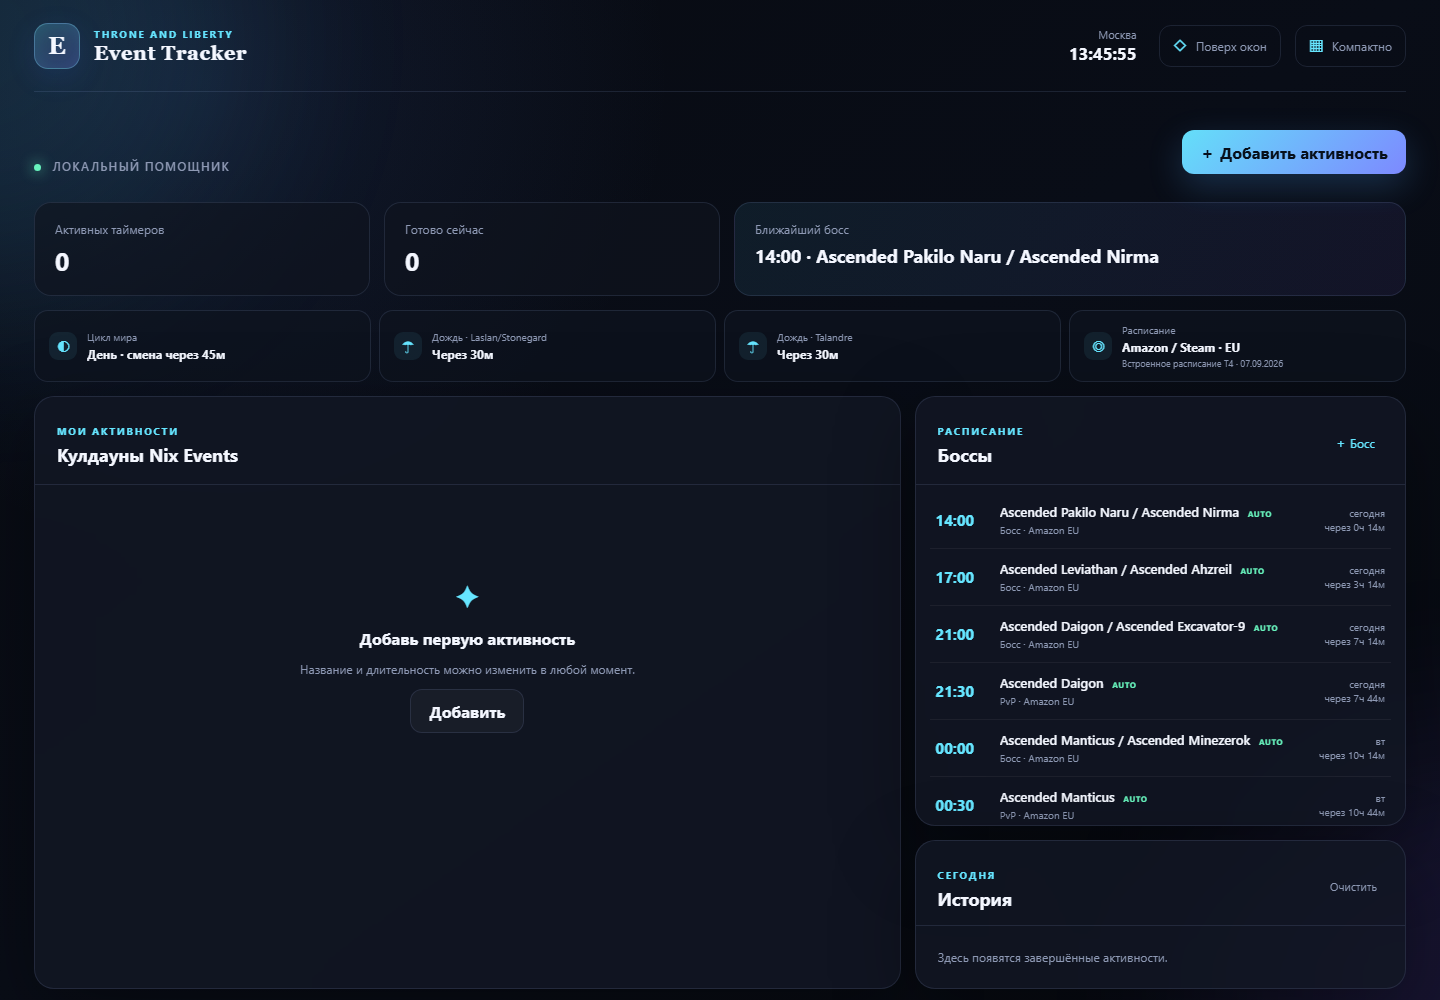
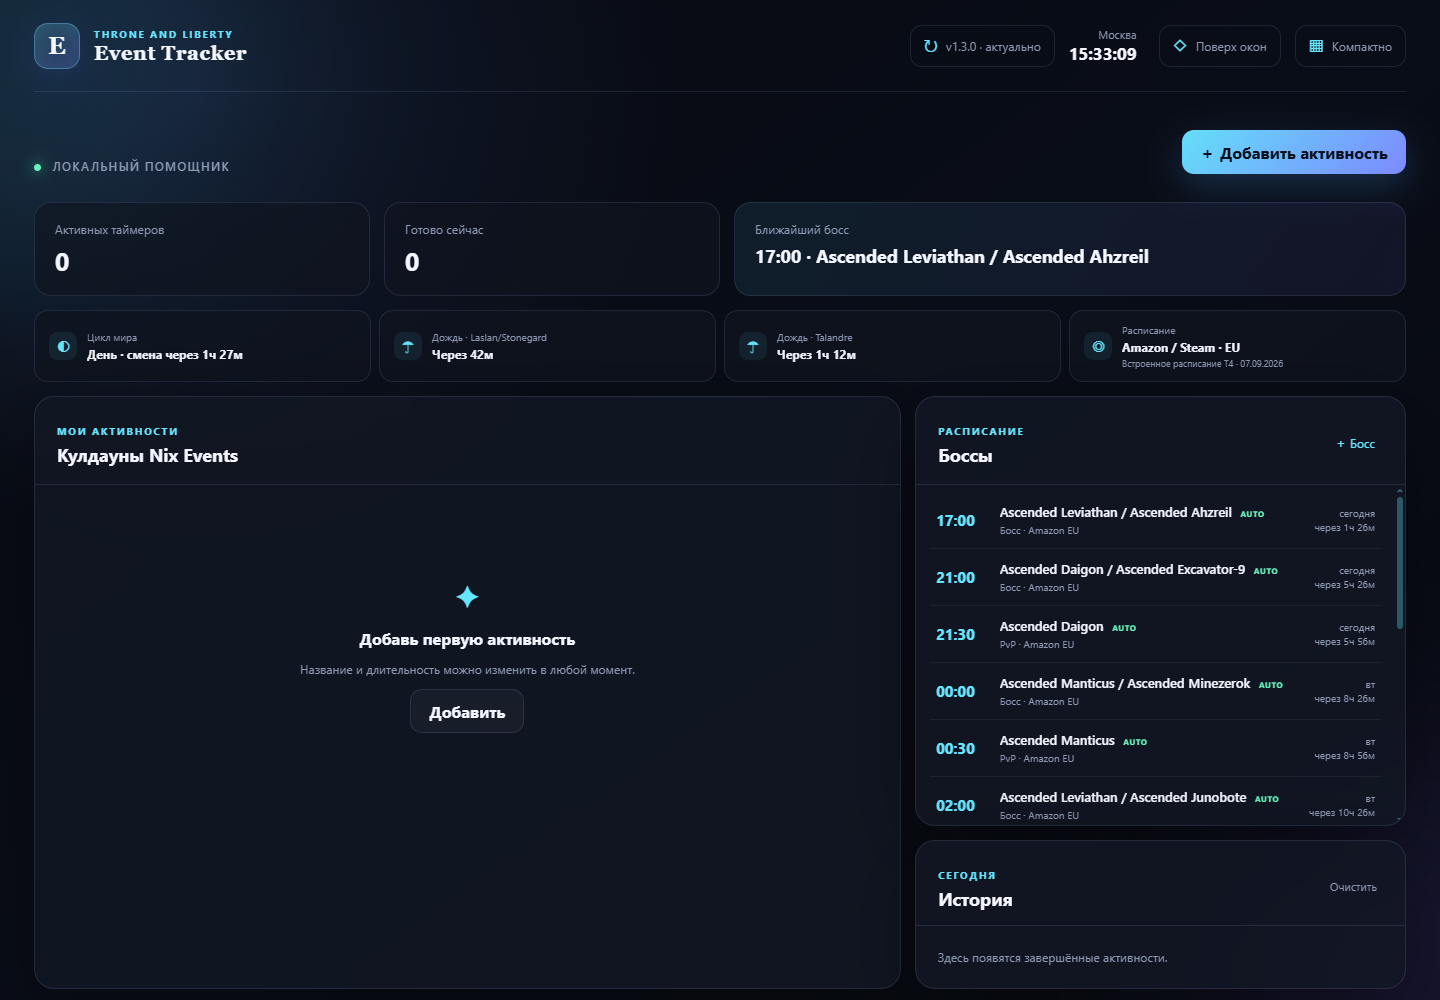
Refresh README and application preview

diff --git a/README.md b/README.md
@@ -1,45 +1,63 @@
 # Nix Tracker
 
-Локальный таймер активностей и событий для Throne and Liberty: Nix.
+Локальный Windows-помощник для **Throne and Liberty (Amazon Games / Steam, регион EU)**: таймеры прохождений, расписание боссов, погода и цикл дня/ночи.
 
-![Интерфейс Nix Tracker](ui-preview.png)
+[![Последний релиз](https://img.shields.io/github/v/release/uladislav-st/tnl-timer?label=release&color=66e5ff)](https://github.com/uladislav-st/tnl-timer/releases/latest)
+[![Windows build](https://github.com/uladislav-st/tnl-timer/actions/workflows/release.yml/badge.svg)](https://github.com/uladislav-st/tnl-timer/actions/workflows/release.yml)
+
+![Интерфейс Nix Tracker с расписанием боссов и автообновлением](ui-preview.png)
+
+## Скачать
+
+Откройте [последний релиз](https://github.com/uladislav-st/tnl-timer/releases/latest) и выберите один из вариантов:
+
+- `Nix-Tracker-Setup-<version>-x64.exe` — рекомендуемая установка с автоматическими обновлениями;
+- `Nix-Tracker-Portable-<version>-x64.exe` — запуск без установки, обновляется вручную.
+
+Сборка пока не подписана коммерческим сертификатом, поэтому Windows SmartScreen может показать предупреждение при первом запуске.
 
 ## Возможности
 
-- пользовательские кулдауны с кнопкой «Пройдено»;
-- системные уведомления;
-- редактируемое расписание боссов и событий;
-- автоматическая EU-ротация T4-боссов Amazon/Steam, включая Porfos и Thuban;
-- фиксированный прокручиваемый список только боссов без общих событий;
-- автоматический прогноз дождя и цикла день/ночь;
-- история прохождений;
-- компактный режим и окно поверх игры;
-- автоматическая проверка обновлений через GitHub Releases;
-- локальное хранение данных без подключения к игровому клиенту.
+- пользовательские таймеры данжей и активностей с кнопкой «Пройдено»;
+- системные уведомления перед окончанием кулдауна;
+- автоматическое расписание T4-боссов Amazon/Steam EU, включая Porfos и Thuban;
+- фиксированный список только боссов с внутренней прокруткой;
+- добавление собственных боссов из игрового Timetable;
+- прогноз дождя для Laslan/Stonegard и Talandre;
+- цикл дня и ночи, московское время и история прохождений;
+- компактный режим и закрепление окна поверх игры;
+- встроенная проверка обновлений через GitHub Releases.
 
-## Запуск
+## Автоматические обновления
+
+Установленная `Setup`-версия проверяет GitHub Releases через несколько секунд после запуска и затем каждые шесть часов. Новая версия загружается в фоне; после загрузки кнопка версии предлагает установить обновление и перезапустить приложение.
+
+Версии `1.2.1` и старше ещё не содержат обновлятор — их нужно один раз вручную заменить на `1.3.0` или новее. Portable-версия по нажатию на индикатор открывает страницу релизов.
+
+## Безопасность
+
+Приложение не внедряется в игровой клиент, не читает память игры, не перехватывает игровой трафик и не отправляет команды. Оно работает как отдельное окно и обращается в интернет только за публичным расписанием и обновлениями. Пользовательские таймеры и история сохраняются локально на компьютере.
+
+## Запуск из исходников
+
+Требуется Node.js 22 или новее.
 
 ```powershell
-npm install
+npm ci
 npm start
 ```
 
-## Windows-сборка
+Сборка Windows-версий:
 
 ```powershell
 npm run dist
 ```
 
-Готовые файлы появятся в папке `release`.
+Готовые файлы появятся в каталоге `release`.
 
-- `Nix-Tracker-Setup-<version>-x64.exe` — установщик;
-- `Nix-Tracker-Portable-<version>-x64.exe` — запуск без установки.
+## Публикация новой версии
 
-Автообновление работает в установленной `Setup`-версии. Portable-сборка при нажатии на индикатор версии открывает страницу GitHub Releases для ручного обновления.
-
-## Публикация обновления
-
-Перед каждым обновлением увеличьте версию и отправьте изменения в ветку `main`:
+Перед обновлением увеличьте версию и отправьте изменения в `main`:
 
 ```powershell
 npm version patch --no-git-tag-version
@@ -48,12 +66,8 @@ git commit -m "Release new version"
 git push origin main
 ```
 
-GitHub Actions запустит тесты, соберёт установщик и portable-файл, создаст публичный Release и добавит служебный `latest.yml`. Установленные копии проверяют обновления при запуске и затем каждые шесть часов. Если версия из `package.json` уже опубликована, workflow остановится, чтобы случайно не перезаписать релиз.
+GitHub Actions запускает тесты, создаёт тег, собирает обе Windows-версии, загружает все файлы в черновик Release и публикует его только после успешной загрузки `latest.yml` и установщика.
 
-Удаление активности или события доступно в форме редактирования по кнопке `•••`.
+## Источники расписания
 
-Приложение не читает память игры, не перехватывает сетевой трафик и не отправляет игровые команды.
-
-## Данные расписания
-
-Автоматический календарь предназначен для Amazon/Steam EU. В приложение встроена резервная T4-ротация, а при запуске оно обновляет расписание из публичного JSON-календаря Throne Watch. Погодные циклы проверены 7 сентября 2026 года по Questlog; появление Porfos и Thuban подтверждено официальными сообщениями Amazon Games.
+В приложение встроена резервная EU T4-ротация. При запуске календарь обновляется из публичных данных [Throne Watch](https://thronewatch.app/); расписание также можно сверять с [Questlog](https://questlog.gg/throne-and-liberty/en). Всё время автоматически показывается для часового пояса `Europe/Moscow`.
